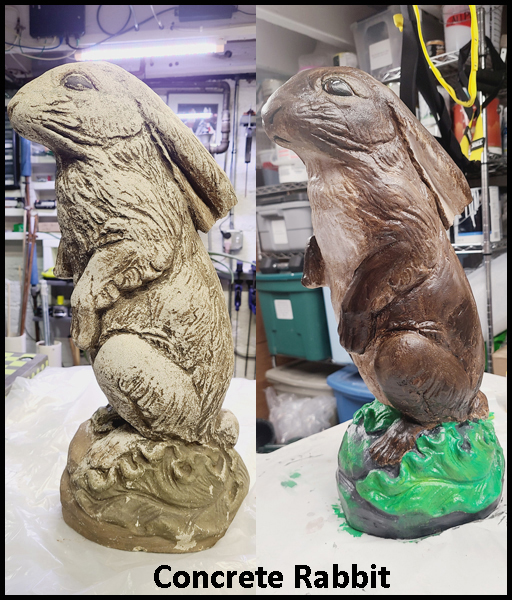
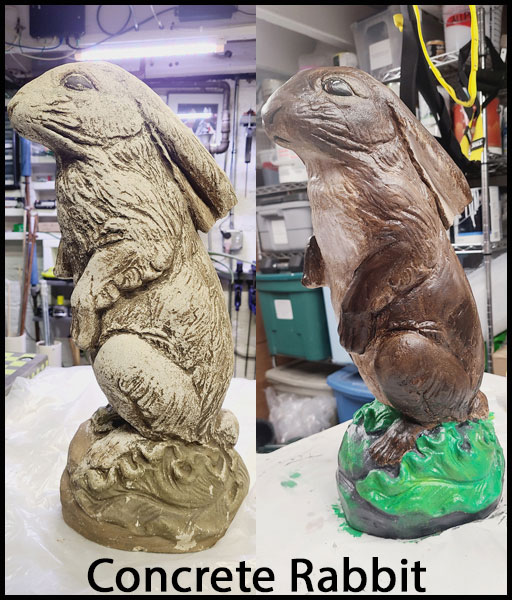
Fix video players - Add controls on fun stuff page

Changed region(s): [[0.1562, 0.93, 0.8438, 0.99]]

diff --git a/var_www_html/FunStuff/FunStuff.html b/var_www_html/FunStuff/FunStuff.html
@@ -112,7 +112,7 @@
 			</div>
 			<div class="row align-items-center mt-2">
 				<div class="col-sm-4 embed-responsive embed-responsive-4by3">
-					<video  controls class="embed-responsive-item w-100">
+					<video controls class="embed-responsive-item w-100">
 						<source src="/FunStuff/MomAndAngel/videos/Angel on David letterman.mono.320X240.mp4"
 							type="video/mp4">
 							<source src="/FunStuff/MomAndAngel/videos/Angel on David letterman.mono.320X240.ogv"
@@ -163,7 +163,7 @@
 			</div>
 			<div class="row align-items-center mt-2">
 				<div class="col-sm-4 embed-responsive embed-responsive-4by3">
-					<video  class="embed-responsive-item w-100">
+					<video controls class="embed-responsive-item w-100">
 						<source src="/FunStuff/KidsMusic/videos/Joseph2012ShowboatSaturday.320.mp4"
 							type="video/mp4">
 							<source src="/FunStuff/KidsMusic/videos/Joseph2012ShowboatSaturday.320.ogv"
@@ -174,7 +174,7 @@
 					</video>
 				</div>
 				<div class="col-sm-4 embed-responsive embed-responsive-4by3">
-					<video class="embed-responsive-item w-100">
+					<video controls class="embed-responsive-item w-100">
 						<source src="/FunStuff/KidsMusic/videos/Joseph2012ConcertoConcert.320.mp4"
 							type="video/mp4">
 							<source src="/FunStuff/KidsMusic/videos/Joseph2012ConcertoConcert.320.ogv"
@@ -185,7 +185,7 @@
 					</video>
 				</div>
 				<div class="col-sm-4 embed-responsive embed-responsive-4by3">
-					<video class="embed-responsive-item w-100">
+					<video controls class="embed-responsive-item w-100">
 						<source src="/FunStuff/KidsMusic/videos/Michelle2009ConcertoConcert.240.mp4"
 							type="video/mp4">
 							<source src="/FunStuff/KidsMusic/videos/Michelle2009ConcertoConcert.240.ogv"
@@ -213,7 +213,7 @@
 			</div>
 			<div class="row align-items-center mt-2">
 				<div class="col-sm-4 embed-responsive embed-responsive-4by3">
-					<video class="embed-responsive-item w-100">
+					<video controls class="embed-responsive-item w-100">
 						<source src="/FunStuff/MarleneTrapeze/videos/Swing4.mp4"
 							type="video/mp4">
 							<source src="/FunStuff/MarleneTrapeze/videos/Swing4.ogv"
